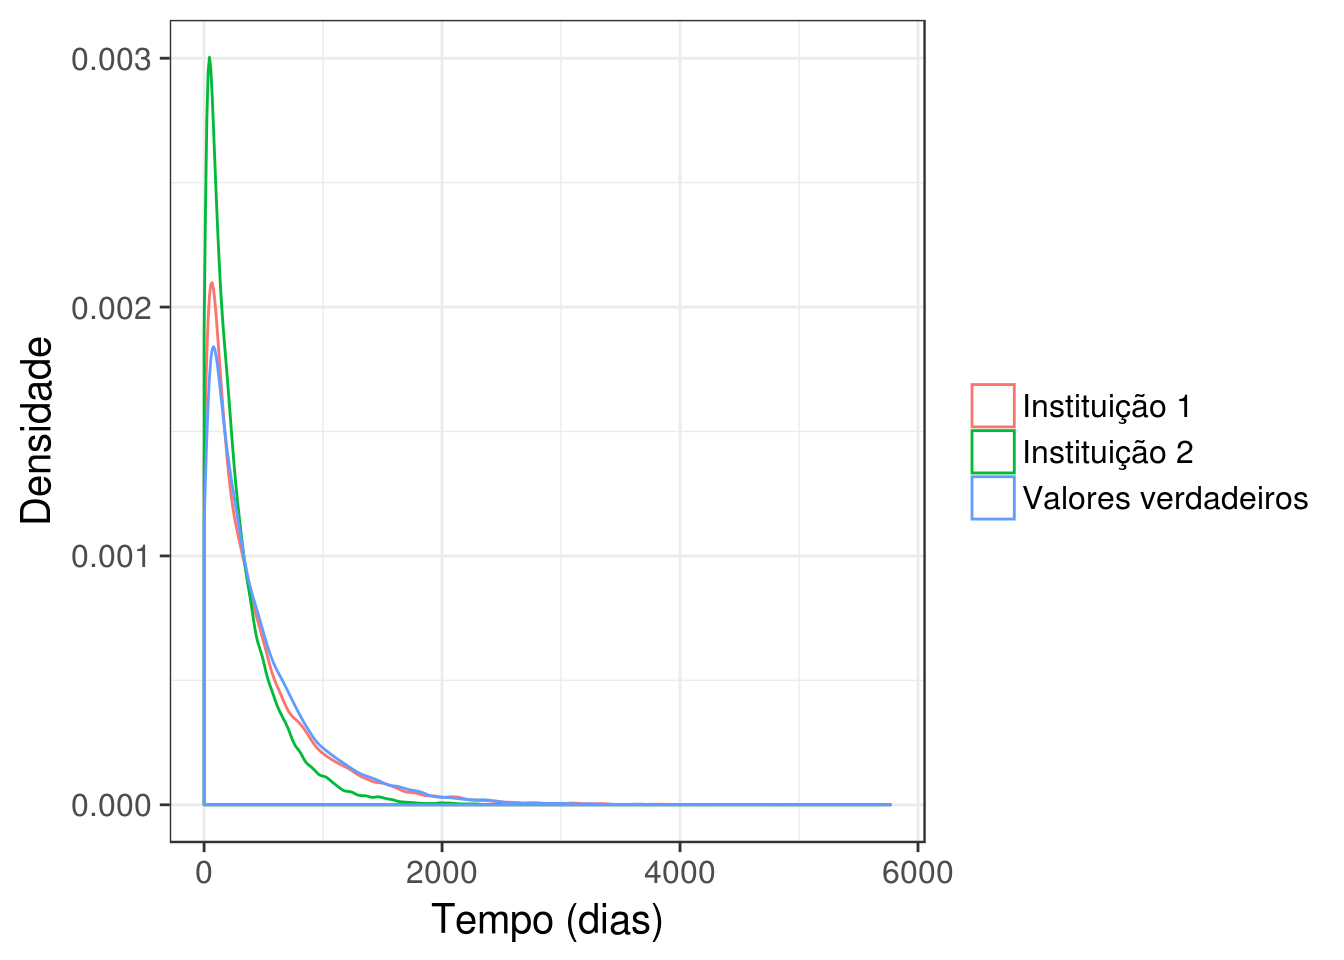
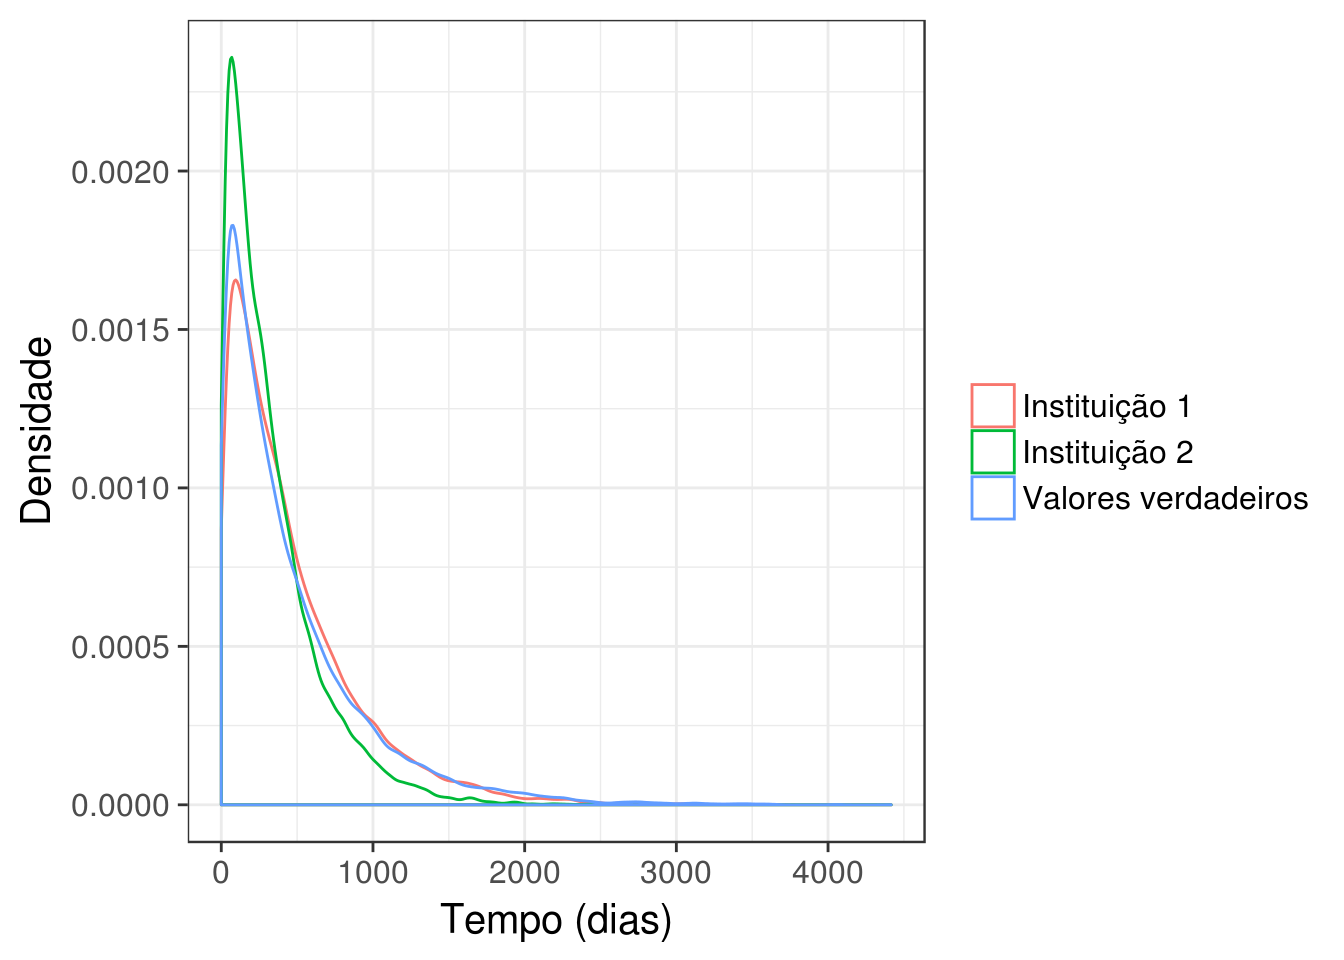
Update Site ABJ

Changed region(s): [[0.0312, 0.0312, 0.4375, 0.9062], [0.25, 0.875, 0.5312, 1.0], [0.5938, 0.875, 0.7188, 0.9375]]

diff --git a/blog/1/01/01/draft_1/index.html b/blog/1/01/01/draft_1/index.html
@@ -187,16 +187,17 @@
 <p>Entretanto, no dia a dia da jurimetria corriqueiramente encontramos alguns problemas que não estão descritos na literatura. O principal desses problemas, que será o tema deste texto, refere-se a diferença qualitativa entre as estimativas de duração produzidas por estudos prospectivos e retrospectivos<a href="#fn2" class="footnoteRef" id="fnref2"><sup>2</sup></a>. Resumidamente, o ponto central aqui é que estudos retrospectivos tendem a distorcer as estimativas de duração. Isso acontece por muitos motivos, mas em particular por causa de uma exclusão sistemática de processos muito longos.</p>
 <p>Para ilustrar essa diferença, vamos produzir simular um pequeno exemplo em que os seus efeitos tornam-se evidentes. Considere que desejamos avaliar um tempo de duração que possui as características abaixo:</p>
 <table>
+<caption><span id="tab:tab1">Table 1: </span>Medidas descritivas do tempo de duração simulado.</caption>
 <thead>
 <tr class="header">
-<th align="right">Média</th>
-<th align="right">Desvio Padrão</th>
+<th align="center">Média</th>
+<th align="center">Desvio Padrão</th>
 </tr>
 </thead>
 <tbody>
 <tr class="odd">
-<td align="right">451.18</td>
-<td align="right">468.33</td>
+<td align="center">462.54</td>
+<td align="center">489.6</td>
 </tr>
 </tbody>
 </table>
@@ -208,40 +209,46 @@ Figure 1: Histograma do tempo de duração simulado.
 </div>
 <p>Agora suponha que duas instituições de pesquisa propõem estudos para medi-lo. As duas obterão um conjunto de processos, medirão as suas respectivas durações e tirarão conclusões a partir daí, sendo a diferença entre os dois estudos apenas a forma com que as amostras serão escolhidas. A primeira sugere que sejam analisados todos os processos distribuídos desde 27/02/1880, o começo dos registros disponíveis na nossa situação hipotético, até hoje 19/01/2017. Essa formulação caracteriza o estudo da instituição 1 como um estudo prospectivo. Já a segunda instituição sugere uma análise que abranja os processos terminados até hoje desde 27/02/1880, caracterizando um estudo retrospectivo. Em ambos os casos, caso sejam observados processos não terminados, as instituições concordam que eles devem ser analisados utilizando técnicas de análise de sobrevivência.</p>
 <p>Um exemplo da realização das pesquisas é descrito na figura <a href="#fig:graph2">2</a>. Cada linha representa o ciclo de vida de um dos processos sendo estudados e as cores representam a sua presença ou ausência nos planos amostrais de cada uma das instituições de pesquisa. A linha tracejada representa a data de corte para a inclusão de processos na amostra da Instituição 2. Pelo gráfico, é evidente que a instituição 2 não leva em conta nenhum processo que ainda não tenha acabado.</p>
-<p>As diferenças nas estimativas obtidas está ilustrada na <a href="#tab:tab2"><strong>??</strong></a> e na <a href="#fig:graph3"><strong>??</strong></a>. Como se vê, as médias obtidas pela instituição 2 são muito menores e, além disso, a cauda da distribuição do tempo de duração é mais leve do que a verdadeira.</p>
+<p>As diferenças nas estimativas obtidas está ilustrada na Tabela <a href="#tab:tab2">2</a> e na Figura <a href="#fig:graph3">3</a>. Como se vê, as médias obtidas pela instituição 2 são muito menores e, além disso, a cauda da distribuição do tempo de duração é mais leve do que a verdadeira.</p>
 <div class="figure" style="text-align: center"><span id="fig:graph2"></span>
-<img src="figures/graph2-1.png" alt="Curva de sobrevivência dos tempos acumulados gastos em decisões e despachos (dias)." width="672" />
+<img src="figures/graph2-1.png" alt="Comparação dos processos observados por cada uma das instituições." width="672" />
 <p class="caption">
-Figure 2: Curva de sobrevivência dos tempos acumulados gastos em decisões e despachos (dias).
+Figure 2: Comparação dos processos observados por cada uma das instituições.
 </p>
 </div>
 <table>
+<caption><span id="tab:tab2">Table 2: </span>Comparação entre os valores reais e as estimativas produzidas por cada instituição.</caption>
 <thead>
 <tr class="header">
 <th align="left"></th>
-<th align="right">Média</th>
-<th align="right">Desvio padrão</th>
+<th align="center">Média</th>
+<th align="center">Desvio padrão</th>
 </tr>
 </thead>
 <tbody>
 <tr class="odd">
 <td align="left">Instituição 1</td>
-<td align="right">430.38</td>
-<td align="right">621.02</td>
+<td align="center">461.16</td>
+<td align="center">389.55</td>
 </tr>
 <tr class="even">
 <td align="left">Instituição 2</td>
-<td align="right">285.45</td>
-<td align="right">358.70</td>
+<td align="center">325.93</td>
+<td align="center">285.61</td>
 </tr>
 <tr class="odd">
 <td align="left">Valores reais</td>
-<td align="right">460.53</td>
-<td align="right">533.42</td>
+<td align="center">460.53</td>
+<td align="center">533.42</td>
 </tr>
 </tbody>
 </table>
-<p><img src="figures/graph3-1.png" width="672" style="display: block; margin: auto;" /></p>
+<div class="figure" style="text-align: center"><span id="fig:graph3"></span>
+<img src="figures/graph3-1.png" alt="Curva de sobrevivência dos tempos acumulados gastos em decisões e despachos (dias)." width="672" />
+<p class="caption">
+Figure 3: Curva de sobrevivência dos tempos acumulados gastos em decisões e despachos (dias).
+</p>
+</div>
 <p>Evidentemente essa simulação não busca sugerir que estudos retrospectivos de tempo de duração de processos judiciais são inadequados e por isso devem ser evitados. Muitas vezes, essa é a única ferramenta disponível e factível em tempo hábil da qual o jurimetrista dispõe e fornece sim informação relevante que pode ser utilizada em prognósticos.</p>
 <p>Na verdade, nossa argumentação procura aletar para uma dificuldade muito frequente nas bases de dados do direito. É um apelo para que se analise os resultados de pesquisa prestando atenção na metodologia de pesquisa, já que o produto de um estudo retrospectivo pode ser interpretado corretamente como um limitante inferior para uma determinada quantidade de interesse.</p>
 <div class="footnotes">
